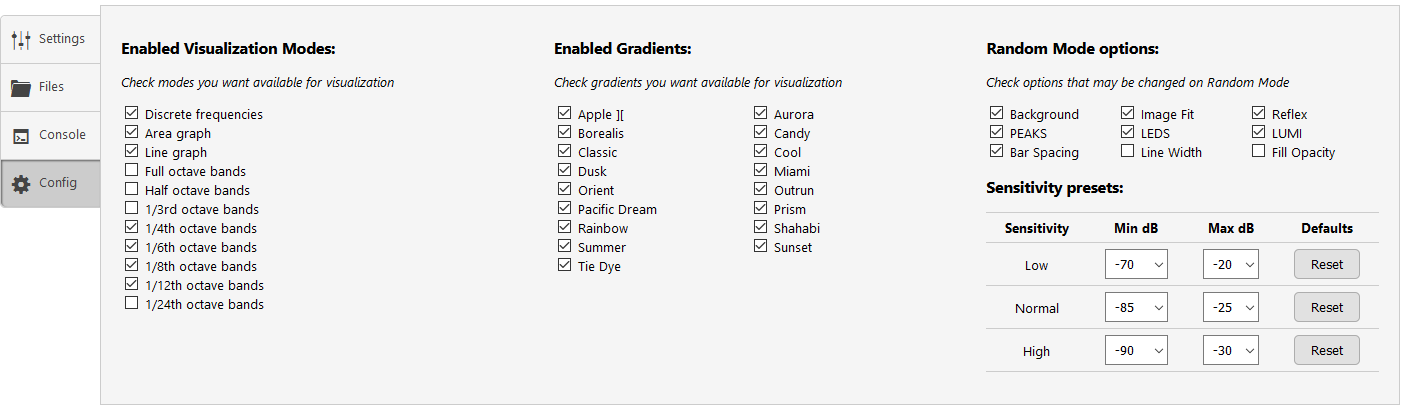
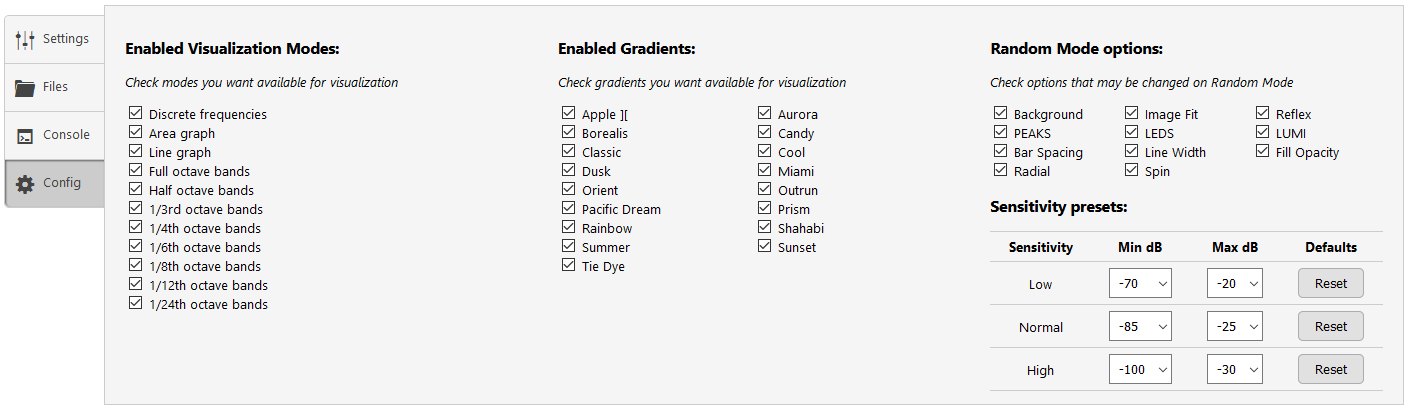
Update documentation.

diff --git a/docs/user-interface.md b/docs/user-interface.md
@@ -61,7 +61,7 @@ You can use the keyboard shortcuts below to control the player and change some s
 **O** | | toggle low-resolution mode
 **P** | | toggle peaks display
 **R** | | toggle play queue repeat
-**S** | click on analyzer | toggle frequency scale display
+**Shift+S** / **S** | click on analyzer | toggle display of frequency and level scales
 **T** | | toggle flat text option
 **U** | | toggle luminance bars effect
 **Shift+X** / **X** | | select previous / next reflex style
@@ -90,21 +90,21 @@ When [Random mode](#random-mode) is active, a random gradient will be selected o
 
 Selects the analyzer background.
 
-- **Gradient default** uses the background color defined by the currently selected gradient - when the [LED effect](#mode) is on, this shows the "unlit" LEDs instead;
+- **Gradient default** uses the background color defined by the currently selected gradient - when the [LED effect](#mode-switches) is on, this shows the "unlit" LEDs instead;
 - **Black** uses a black background;
 - **Album cover** displays the album cover for the current song. See also [Image Fit](#image-fit) and [Image Dim](#image-dim) settings.
 
 You can cycle through the available options using the **B** keyboard shortcut.
 
-Album covers are retrieved from the songs' metadata. When a picture is not found in the metadata, **audioMotion** will look for a file named
-*cover* or *folder* (with a jpg, png, gif or bmp extension) in the song's folder.
+Album covers are preferably retrieved from song metadata. When a picture is not found in the metadata, **audioMotion** will look for jpg, png, gif or bmp files
+in the song's folder, and will use any image which filename contains the words *cover*, *folder* or *front* (in this order), or the first image found otherwise.
 
 #### Image Fit
 
 When [Background](#background) is set to **Album cover**, this option selects the size and positioning of the image.
 
 - **Adjust** - resizes the image so it fills the entire canvas;
-- **Center** - displays the image horizontally centered on the canvas;
+- **Center** - displays the image horizontally centered on the canvas (default);
 - **Pulse** - makes the image pulsate to the beat of the song;
 - **Repeat** - repeats the image horizontally to fill the canvas;
 - **Zoom In** - image is initially centered on the canvas and slowly zooms in as the song plays;
@@ -120,14 +120,26 @@ When [Background](#background) is set to **Album cover**, this option adjusts th
 
 ![ui-reflex](img/UI_reflex.png)
 
-Selects a reflection style for the analyzer. This setting has no effect when the [LUMI](#mode) switch is active.
+Selects a reflection style for the analyzer. This setting has no effect when the [LUMI](#mode-switches) switch is active.
+
+#### Scale
+
+![ui-scale](img/UI_scale.png)
+
+Selects which scale(s) should be displayed in the analyzer axes:
+
++ None;
++ Frequency (Hz) scale, displayed on the horizontal axis (default);
++ Level (dB) scale, displayed on the vertical axis (not shown when LUMI or RADIAL [switches](#mode-switches) are active);
++ Both.
+
+You can cycle through the available options using the **S** and **Shift + S** keyboard shortcuts, or clicking on the analyzer canvas.
 
 #### Analyzer switches
 
 ![ui-switches](img/UI_switches.png)
 
 + **INFO** toggles the on-screen display of song information on every track change
-+ **SCALE** toggles the display of the frequency scale on the X-axis
 + **PEAKS** shows amplitude peaks for each frequency
 
 Performance-related options:
@@ -146,15 +158,42 @@ Selects the visualization mode.
 
 + **Discrete frequencies** mode allows you to visualize individual frequencies provided by the [FFT](https://en.wikipedia.org/wiki/Fast_Fourier_transform);
 + **Area graph** displays the same frequency data as above, but as a filled area graph;
-+ **Line graph** connects all the discrete frequency points in a continuous line and allows you to customize the line width and fill opacity;
++ **Line graph** connects all the discrete frequency points in a continuous line and allows you to customize the [line width and fill opacity](#line-width-and-fill-opacity);
 + **Octave bands** modes display wider vertical bars, each one representing the *n*th part of an octave, based on a [24-tone equal tempered scale](https://en.wikipedia.org/wiki/Quarter_tone).
 
 You can also select the visualization mode using the **M** and **Shift + M** keyboard shortcuts.
 
-Switches:
+#### Bar spacing
+
+![ui-bar-spacing](img/UI_bar_spacing.png)
+
+Bar Spacing can be configured when any [octave bands mode](#mode) is selected. Avaliable options are:
+
++ Legacy (minimum spacing between analyzer bars);
++ Narrow (10% of bar width) (default);
++ Regular (25% of bar width);
++ Wide (50% of bar width);
++ Extra wide (75% of bar width).
+
+#### Line Width and Fill Opacity
+
+![ui-line-graph-settings](img/UI_line_graph_settings.png)
+
+These settings can be configured when [Line graph mode](#mode) is selected.
+
+**Line Width** controls the thickness of the outer graph line, while **Fill Opacity** adjusts the transparency of the graph area.
+
+#### Mode switches
+
+![ui-mode-switches](img/UI_mode_switches.png)
+
+Select additional visualization effects.
 
 + **LEDS** toggles the vintage LED effect for the analyzer bars *(octave bands modes only)*
 + **LUMI** toggles the luminance bars effect - analyzer bars are displayed always at full-height, varying their luminance instead *(octave bands modes only)*
++ **RADIAL** displays a circular spectrum analyzer with radial frequencies *(disables both LEDS and LUMI)*
+
+When **RADIAL** is active, you can also configure the spinning speed.
 
 #### Random Mode
 
@@ -202,9 +241,11 @@ The presets can be customized in the [Config Panel](#config-panel).
 
 ![ui-preset](img/UI_preset.png)
 
-**Full resolution**, **Octave bands** and **LED bars** presets provide quick configuration recommendations.
+The **Demo** preset will pick new visualization settings when loaded and will set random mode to 15 seconds, so it's a great way to quickly overview all of audioMotion's features!
 
-Any changes to the settings will be automatically saved to the browser's [localStorage](https://developer.mozilla.org/en-US/docs/Web/API/Window/localStorage)
+**Full resolution**, **LED bars** and **Octave bands** presets provide quick configuration recommendations.
+
+Any changes to the settings will be automatically saved to your browser's [localStorage](https://developer.mozilla.org/en-US/docs/Web/API/Window/localStorage)
 and restored the next time you open audioMotion. You can manually load the **Last session** preset to undo any changes made during the current session.
 
 The **Restore defaults** preset resets all options to their initial values, as in the first time you run audioMotion.
@@ -228,7 +269,7 @@ You can also drag and drop files from the file explorer into the play queue.
 
 Supported extensions are flac, m4a, mp3, ogg and wav for music files, and m3u or m3u8 for playlists. Codec support may vary, depending on your web browser and operating system.
 
-If the current folder contains a file named *cover* or *folder* with jpg, png, gif or bmp extension, the image will be shown in the background of the file explorer.
+Any image file found in the current folder will be shown in the background of the file explorer, preference given to filenames containing the words *cover*, *folder* or *front* (in this order).
 
 #### Play queue and playlists
 

diff --git a/README.md b/README.md
@@ -78,18 +78,20 @@ For full documentation summary, see the [docs folder](docs/).
 Discrete frequencies mode. User interface showing the file explorer and play queue.
 ![screenshot1](docs/img/screenshot1.png "Discrete frequencies mode. User interface showing the file explorer and play queue.")
 
-1/12th-octave bands mode with LED effect and on-screen song information. User interface showing the settings panel.
-![screenshot2](docs/img/screenshot2.png "1/12th-octave bands mode with LED effect and on-screen song information. User interface showing the settings panel.")
+1/4th-octave bands mode, extra wide bar spacing, with LED effect and on-screen song information. User interface showing the settings panel.
+![screenshot2](docs/img/screenshot2.png "1/4th-octave bands mode, extra wide bar spacing, with LED effect and on-screen song information. User interface showing the settings panel.")
 
-Full screen view: 1/6th-octave bands, Regular bar spacing, 30Hz-16KHz, "Outrun" gradient, Reflex effect and complete on-screen information.
-![screenshot3](docs/img/screenshot3.png "Full screen view: 1/6th-octave bands, Regular bar spacing, 30Hz-16KHz, 'Outrun' gradient, Reflex effect and complete on-screen information")
+Fullscreen 1/6th-octave bands, Regular bar spacing, 30Hz-16KHz, "Outrun" gradient, Reflex effect and complete on-screen information.
+![screenshot3](docs/img/screenshot3.png "Fullscreen 1/6th-octave bands, Regular bar spacing, 30Hz-16KHz, 'Outrun' gradient, Reflex effect and complete on-screen information")
 
-Full screen view: Area fill mode, 20Hz-22KHz, frequency scale on, "Rainbow" gradient.
-![screenshot4](docs/img/screenshot4.png "Full screen view: Area fill mode, 20Hz-22KHz, frequency scale on, 'Rainbow' gradient")
+Fullscreen Line graph mode, 20Hz-22KHz, frequency and level scales on, "Rainbow" gradient.
+![screenshot6](docs/img/screenshot6.png "Fullscreen Line graph mode, 20Hz-22KHz, frequency and level scales on, 'Rainbow' gradient")
 
-Full screen view: 1/8th-octave bands mode with Luminance bars effect, 30Hz-16KHz, frequency scale on, "Tie Dye" gradient.
-![screenshot5](docs/img/screenshot5.png "Full screen view: 1/8th-octave bands mode with Luminance bars effect, 30Hz-16KHz, frequency scale on, 'Tie Dye' gradient")
+Fullscreen 1/8th-octave bands mode with Luminance bars effect, 30Hz-16KHz, frequency scale on, "Tie Dye" gradient.
+![screenshot5](docs/img/screenshot5.png "Fullscreen 1/8th-octave bands mode with Luminance bars effect, 30Hz-16KHz, frequency scale on, 'Tie Dye' gradient")
 
+Fullscreen Radial 1/6th-octave bands mode with frequency scale on, "Apple ][" gradient.
+![screenshot7](docs/img/screenshot7.png "Fullscreen Radial 1/6th-octave bands mode with frequency scale on, 'Apple ][' gradient")
 
 ## Credits and acknowledgments
 
